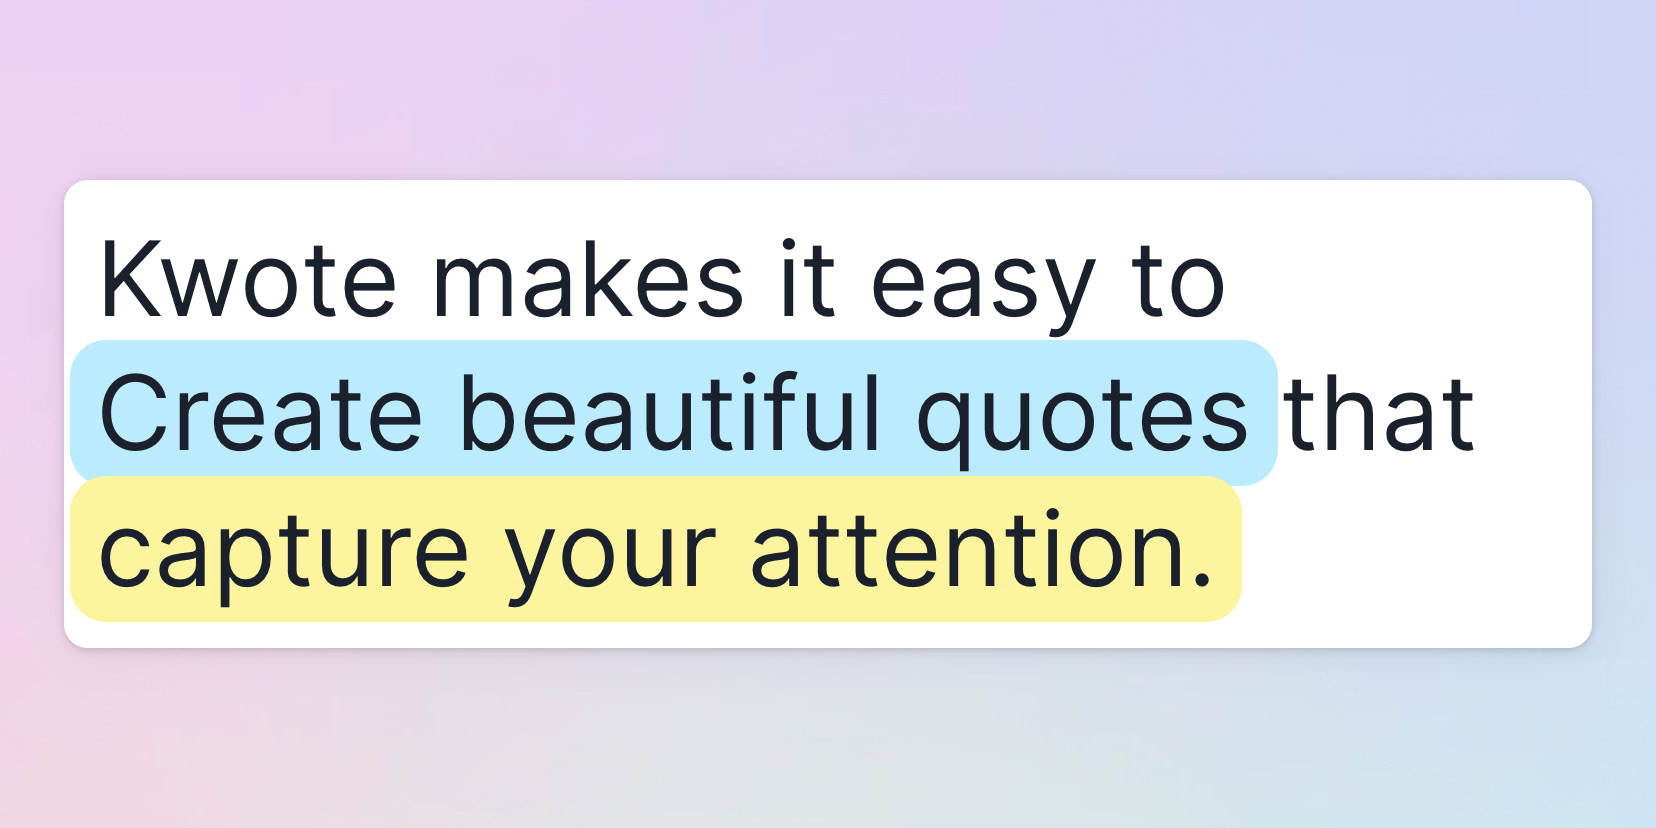
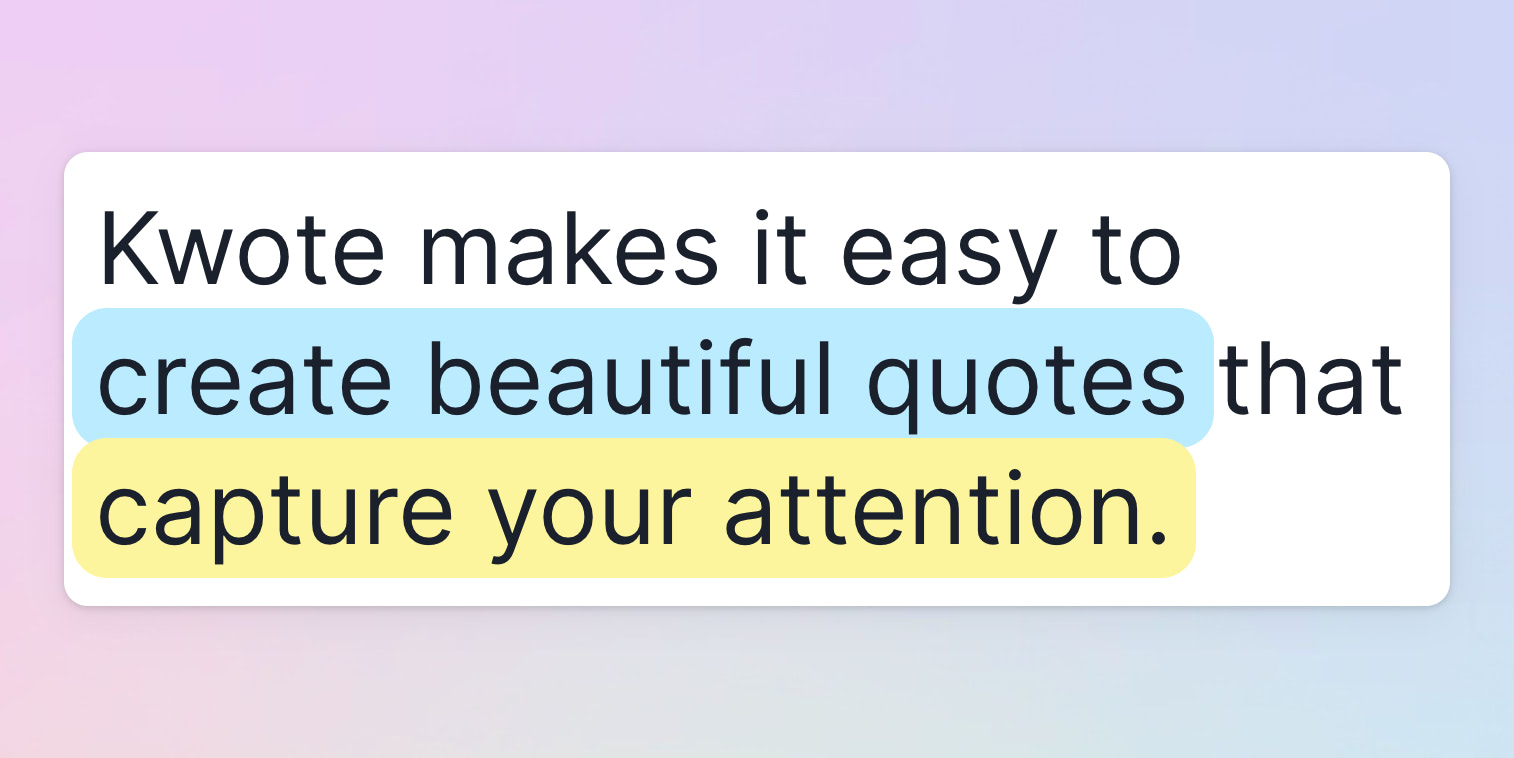
🚺

Changed region(s): [[0.031, 0.1821, 0.9624, 0.8193]]

diff --git a/readme.md b/readme.md
@@ -1,7 +1,8 @@
 <p align="center">
   <a href="https://kwote.app">
-    <img alt="Kwote makes it easy to create beautiful images that capture your attention." src="https://user-images.githubusercontent.com/552829/165190411-d2fdd7b4-2fb5-41f4-994e-71f143f5f84d.jpg" width="828">
+    <img alt="Kwote makes it easy to create beautiful images that capture your attention." src="https://user-images.githubusercontent.com/552829/165193742-499b2a84-f0ce-485e-8472-2969fa8016b4.jpg" width="757">
   </a>
+  
 </p>
 
 <p align="center">
@@ -19,7 +20,6 @@ Another trait, it took me a while to notice. I noticed the following facts about
 
 ## TODO
 
-- add social image
 - add examples
 - fix lexical bug with newlines
 - docs
